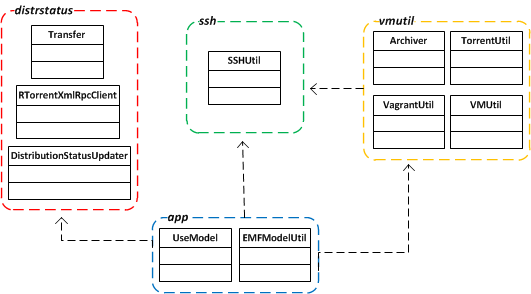
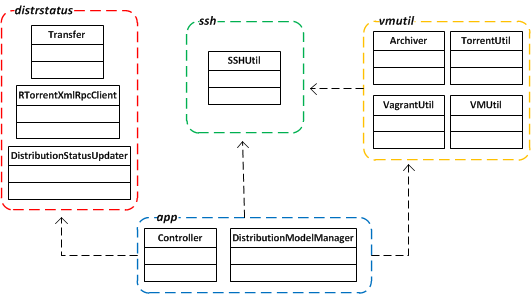
th - final ver, changed packagdiag

Changed region(s): [[0.2411, 0.7041, 0.693, 1.0], [0.6629, 0.7653, 0.7533, 0.9184], [0.693, 0.949, 0.7232, 0.9796]]

diff --git a/hu.bme.mit.vmdistribution.thesis/src/content/implementation.tex b/hu.bme.mit.vmdistribution.thesis/src/content/implementation.tex
@@ -66,23 +66,23 @@ A fájlterítés futását a STOP vagy S parancsokkal lehet megszakítani. Amenn
 %----------------------------------------------------------------------------
 \label{impl_app}
 
-\Aref{fig:packagediag}-es ábrán az alkalmazást felépítő fontosabb Java osztályokat láthatjuk a csomagjaik szerint, azok egymástól való függéseit jelölve. Az ábra után következő táblázat tartalmazza a felrajzolt osztályok rövid leírását.
+\Aref{fig:packagediag}-es ábrán az alkalmazást felépítő fontosabb komponenseket láthatjuk, azok egymástól való függéseit jelölve. Az ábra után következő táblázat tartalmazza a rövid leírásukat.
 
 \begin{figure}[ht]
 \centering
 \includegraphics[width=150mm, keepaspectratio]{figures/packagediag.png}
-\caption{Vmdistribution osztályai és package-ei}
+\caption{Vmdistribution komponensei}
 \label{fig:packagediag}
 \end{figure}
 
 \begin{center}
 	\begin{tabular}{|>{\centering\arraybackslash}m{45mm}|>{\centering\arraybackslash}m{95mm}|}
 		\hline
-		\textbf{Osztály neve}&\textbf{Funkciójának rövid leírása}\\
+		\textbf{Komponens neve}&\textbf{Funkciójának rövid leírása}\\
 		\hline
-		UseModel & Az alkalmazás fő osztálya, ez tartalmazza main függvényt és vezérli a terítési folyamatot.\\ 
+		Controller & Az alkalmazás fő komponense, ez tartalmazza main függvényt és vezérli a terítési folyamatot.\\ 
 		\hline
-		EMFModelUtil & A labor modelljét kezeli: betölti, futtatás után elmenti, illetve műveleteket tud végezni rajta (pl. kezdeti és végállapot közti különbség meghatározása\\
+		DistributionModelManager & A labor modelljét kezeli: betölti, futtatás után elmenti, illetve műveleteket tud végezni rajta (pl. kezdeti és végállapot közti különbség meghatározása\\
 		\hline
 		\hline
 		SSHUtil & SSH kapcsolatot tud létrehozni és azon keresztül távoli gépekre parancsokat küldeni és SCP protokollt használva fájlokat küldeni.\\
